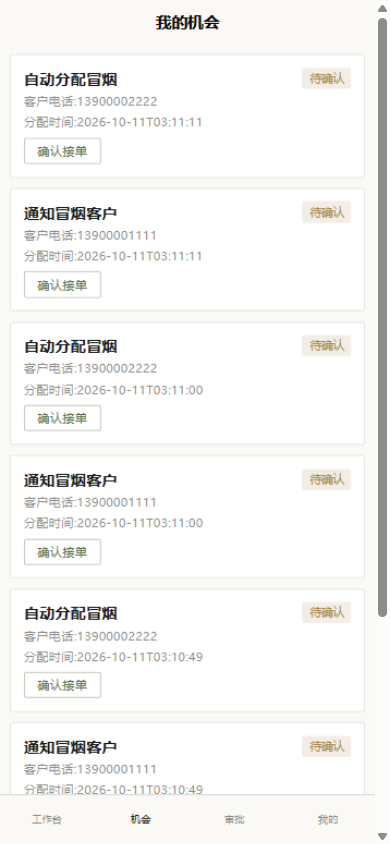
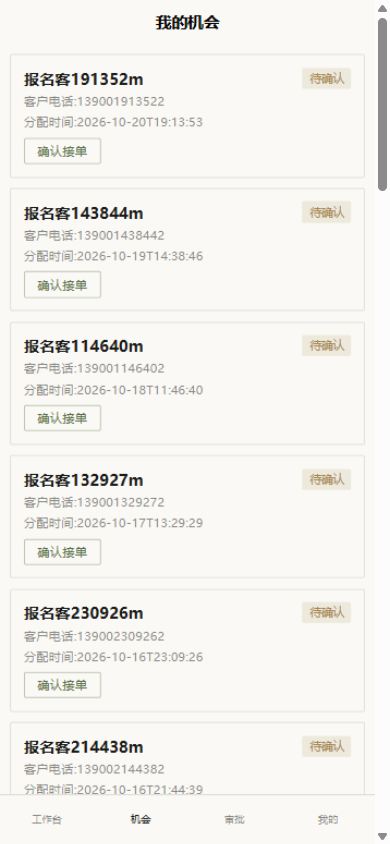
docs(readme): 移动端预览扩充——员工端 3→8 页 + 客户端门户 2 页(第 75 次,用户指令:其他移动端页面多显示)。①员工端新增:客源登记/通知中心/我的三图,刷新工作台/机会/审批/请假四图(dev 真实数据,Edge 视口 390×844 逐页实截);②新增客户端门户节:web-mp 案例库(匿名)/验证码登录两图(第 69 次重截版);③「移动端」措辞改「员工端/客户端门户」对齐双端形态节;截图管线=IAB 浏览器 390×844 逐页实截(uni-app H5 登录链:shadow DOM 点击绕行+evaluate 程序化提交);零代码改动;老系统零触碰,生产库

diff --git a/README.md b/README.md
@@ -103,12 +103,28 @@
   <img src="docs/screenshots/web/plans.png" width="49%" alt="计划任务 · 死信可见可重跑" title="计划任务 · 死信可见可重跑">
 </p>
 
-**移动端**(uni-app 一码三出:小程序 + APP + H5)
+**员工端**(uni-app 一码三出:小程序 + APP + H5)
 
 <p>
   <img src="docs/screenshots/app/01-login.png" width="30%" alt="登录 · 朱印方章" title="登录 · 朱印方章">
   <img src="docs/screenshots/app/02-index.png" width="30%" alt="工作台" title="工作台">
+  <img src="docs/screenshots/app/06-leads-create.png" width="30%" alt="客源登记" title="客源登记">
+</p>
+<p>
+  <img src="docs/screenshots/app/03-chances.png" width="30%" alt="我的机会" title="我的机会">
   <img src="docs/screenshots/app/04-approvals.png" width="30%" alt="我的审批" title="我的审批">
+  <img src="docs/screenshots/app/05-leave.png" width="30%" alt="请假示例(多级审批)" title="请假示例(多级审批)">
+</p>
+<p>
+  <img src="docs/screenshots/app/07-notifications.png" width="30%" alt="通知中心" title="通知中心">
+  <img src="docs/screenshots/app/08-mine.png" width="30%" alt="我的" title="我的">
+</p>
+
+**客户端门户**(web-mp,H5 已上线:案例匿名浏览 / 进度 / 积分 / 验证码登录)
+
+<p>
+  <img src="docs/screenshots/webmp-cases.png" width="30%" alt="客户端 · 案例库(匿名)" title="客户端 · 案例库(匿名)">
+  <img src="docs/screenshots/webmp-login.png" width="30%" alt="客户端 · 验证码登录" title="客户端 · 验证码登录">
 </p>
 
 > 更多截图见 [docs/screenshots/](docs/screenshots)(客源/款项/审批中心/机会/请假等)。
@@ -273,6 +289,9 @@ cd web-mp && npm install && npm run dev:h5
 |---|---|
 | [docs/01-剔除保留清单.md](docs/01-剔除保留清单.md) | 需求规格书:老系统 41 模块逐一过堂,判归内核/行业/商业/删除 |
 | [docs/02-插件框架RFC.md](docs/02-插件框架RFC.md) | 插件机制六点设计 + spike 结论(含三个工程坑) |
+| [docs/06-高管驾驶舱与指标体系设计参考.md](docs/06-高管驾驶舱与指标体系设计参考.md) | 方林驾驶舱专题反哺归档:六维指标口径/报表框架设计输入/图表规范/聚合表模式 |
+| [docs/07-经营看板与战报激励体系设计参考.md](docs/07-经营看板与战报激励体系设计参考.md) | fl-yy 反哺归档:经营目标三模型/战报PK激励域盘点/数据范围控制/outbox 等工程模式 |
+| [docs/scripts/ads-reference/](docs/scripts/ads-reference) | 行业聚合表 SQL 参考(工单达成/渠道漏斗/应收账龄/项目毛利/库存周转/到货准时) |
 | [docs/prd/](docs/prd) | 各 addon 的 PRD(业务闭环),含模板 |
 | [docs/rules/](docs/rules) | 各 addon 的实现口径(状态机/金额口径/字典枚举) |
 | [AGENTS.md](AGENTS.md) | AI 协作开发指南(架构军规/文档金字塔/工作流) |
